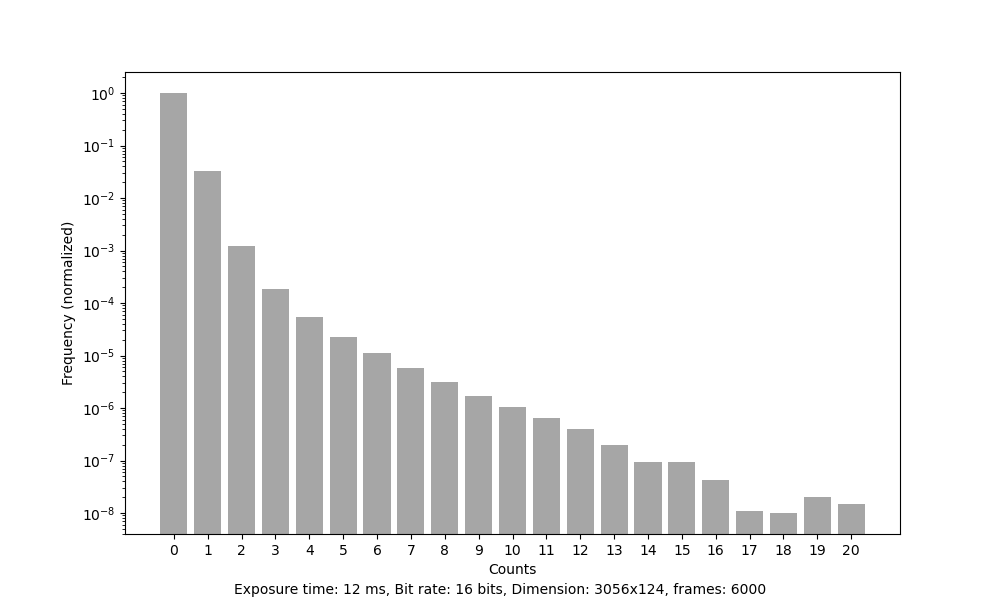
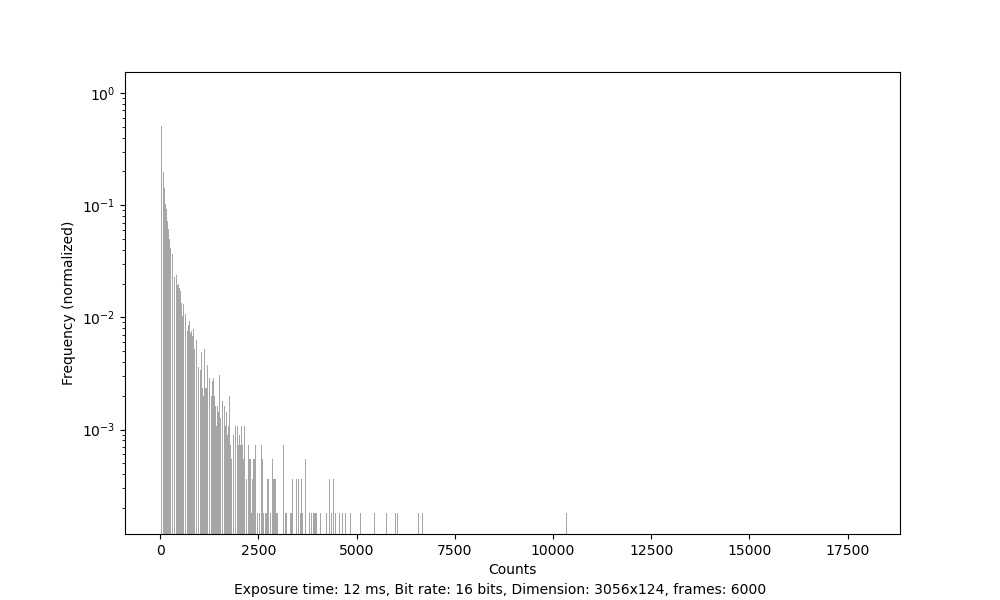
correctly added frames up in total_pixel_values()

diff --git a/tiff.py b/tiff.py
@@ -50,21 +50,22 @@ def average_pixel_values(file_names, value_max, save=False):
     # 显示图表
     plt.show()
 
-def grouping_intensity_values(image_array, value_max):
-    freq_array, bins = np.histogram(image_array, bins=value_max, range=(0, value_max))
-    return bins, freq_array
+def grouping_intensity_values(image_array, bin_width=1):
+    # 1. image_array is a list of zero or positive integers. 
+    # 2. returns will be a list from 0 to the max of image_array, and another list of how many elements having the value in the first list respectively. 
+    # 3. returns should be ready for a bar plot. 
+    max_value = np.max(image_array)
 
-def grouping_intensity_values(image_array, value_max):
-    # 计算每个区间的元素数量
-    pixels, bins = np.histogram(image_array, bins=500, range=(0, value_max))
+    pixels, bins = np.histogram(image_array, bins=int(max_value+1), range=(0, max_value))
     bins = bins[:-1]
 
     return bins, pixels
 
-def total_pixel_values(tiff_path, value_max, save=False):
+def total_pixel_values(tiff_path, plot_type, save=False):
 
     # 定义pickle文件的名字
-    pickle_file = 'img_data.pkl'
+    # pickle_file = 'img_data.pkl'
+
     tiff_filenames = get_tiff_list(tiff_path)
 
     start_time = time.time()
@@ -83,8 +84,8 @@ def total_pixel_values(tiff_path, value_max, save=False):
     #         pickle.dump(img_arrays, f)
     #     print('Data saved to pickle file')
 
-    # region read tags from img_first
-    img_first = imread(f'{tiff_path}\\{tiff_filenames[0]}')
+    # region get tags from img_first
+    img_first = Image.open(f'{tiff_path}\\{tiff_filenames[0]}')
     image_arrays = np.zeros_like(img_first, dtype=np.float64)
 
     # tag 270 Image description
@@ -110,10 +111,6 @@ def total_pixel_values(tiff_path, value_max, save=False):
     image_dimension = str(img_first.tag_v2.get(256)) + "x" + str(img_first.tag_v2.get(257))
     if debug==True:
         print(f"Dimension: {image_dimension}")
-
-    end_time = time.time()
-    if debug==True:
-        print(f"File reading time: {end_time - start_time} seconds")
     # endregion
 
     for file_name in tiff_filenames:
@@ -122,41 +119,57 @@ def total_pixel_values(tiff_path, value_max, save=False):
             img = Image.open(f'{tiff_path}\\{file_name}')
             img_array = np.array(img)
             image_arrays += img_array
+
+    if debug==True:
+        frames = len(tiff_filenames)
+        print('exposures:', frames)
     if debug==True:
         print('Dimension of image_arrays:', image_arrays.shape)
+        print('Maximum value of image_arrays:', np.max(image_arrays))
 
-    image_arrays = image_arrays.flatten()
-    # Normalizing the image arrays
-    total_freq_arrays_normalized = image_arrays / np.max(image_arrays)
+    end_time = time.time()
+    if debug==True:
+        print(f"File reading time: {end_time - start_time} seconds")
 
-    # 设置图表的大小
-    fig = plt.figure(figsize=(10, 6))
+    
+    if plot_type == 'imshow':
+        fig = plt.figure(figsize=(10, 6))
+        plt.imshow(image_arrays, cmap='hot', interpolation='nearest')
+        plt.colorbar(label='Pixel Value (Sum)')
+        fig.text(0.5, 0.01, f'Exposure time: {exposure_time_ms} ms, Bit rate: {bit_rate[0]} bits, Dimension: {image_dimension}, frames: {len(tiff_filenames)}', ha='center') # Add caption to the figure
+        if save==True:
+            plt.savefig('total_pixel_cmap.png')
+        plt.show()
+    elif plot_type == 'hist':
+        bins, freq_array = grouping_intensity_values(image_arrays, bin_width=int(0.1*frames))
 
-    # 创建直方图
-    bars = plt.bar(range(value_max), total_freq_arrays_normalized, color='gray', alpha=0.7)
-    # bars = plt.bar(range(value_max), total_freq_array, color='gray', alpha=0.7)
+        # Normalizing the frequency array
+        freq_arrays_normalized = freq_array / np.max(freq_array)
 
-    xticks = np.arange(0, int(value_max)) # 生成一个从x轴的最小值到最大值的整数序列
-    plt.xticks(xticks) # 设置x轴的刻度
-    plt.yscale('log') # 将y轴标签改为对数值
+        # 设置图表的大小
+        fig = plt.figure(figsize=(10, 6))
+        bars = plt.bar(bins, freq_arrays_normalized, color='gray', alpha=0.7)
 
-    # # 在每个柱子上方添加一个文本标签
-    # for bar in bars:
-    #     height = bar.get_height()
-    #     plt.text(bar.get_x() + bar.get_width() / 2, height, 
-    #             f'{height:.1f}', ha='center', va='bottom')
+        # xticks = np.arange(0, int(value_max)) # 生成一个从x轴的最小值到最大值的整数序列
+        # plt.xticks(xticks) # 设置x轴的刻度
+        plt.yscale('log') # 将y轴标签改为对数值
 
-    # plt.title(f'Histogram of Total Counts v.s. Amount of Pixels after {len(freq_arrays)} exposures')
-    plt.xlabel('Counts')
-    plt.ylabel('Frequency (normalized)')
-    fig.text(0.5, 0.01, f'Exposure time: {exposure_time_ms} ms, Bit rate: {bit_rate[0]} bits, Dimension: {image_dimension}, frames: {len(tiff_filenames)}', ha='center') # Add caption to the figure
+        # # 在每个柱子上方添加一个文本标签
+        # for bar in bars:
+        #     height = bar.get_height()
+        #     plt.text(bar.get_x() + bar.get_width() / 2, height, 
+        #             f'{height:.1f}', ha='center', va='bottom')
 
+        # plt.title(f'Histogram of Total Counts v.s. Amount of Pixels after {len(freq_arrays)} exposures')
+        plt.xlabel('Counts')
+        plt.ylabel('Frequency (normalized)')
+        fig.text(0.5, 0.01, f'Exposure time: {exposure_time_ms} ms, Bit rate: {bit_rate[0]} bits, Dimension: {image_dimension}, frames: {len(tiff_filenames)}', ha='center') # Add caption to the figure
 
-    if save==True:
-        plt.savefig('total_pixel_values.png')
+        if save==True:
+            plt.savefig('total_pixel_values.png')
 
-    # 显示图表
-    plt.show()
+        # 显示图表
+        plt.show()
 
 def pixel_fluctuation(file_names, value_range, save=False):
     img_arrays = []
@@ -261,7 +274,7 @@ tiff_path = 'W:\\Quant_Opt_Group\\Group\\Zhengyin_public\\LABDATA\\3.12 qCMOS\\d
 def main():
     # average_pixel_values(tiff_files, 22, save=False)
     # pixel_fluctuation(tiff_files, (0, 6), save=False)
-    total_pixel_values(tiff_path, 21, save=True)
+    total_pixel_values(tiff_path, 'imshow', save=True)
 
 if __name__ == '__main__':
     main()
